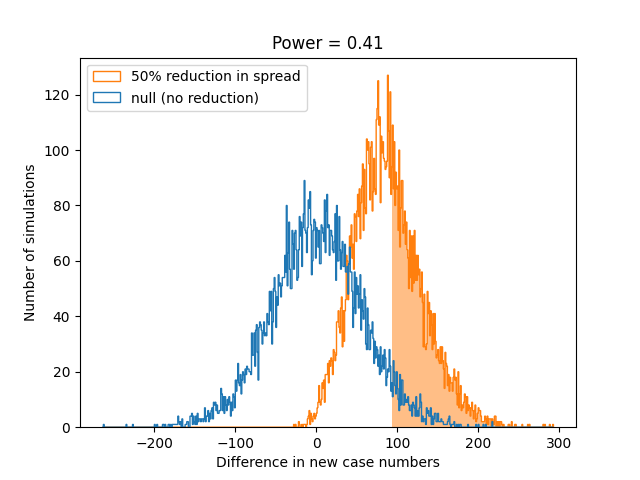
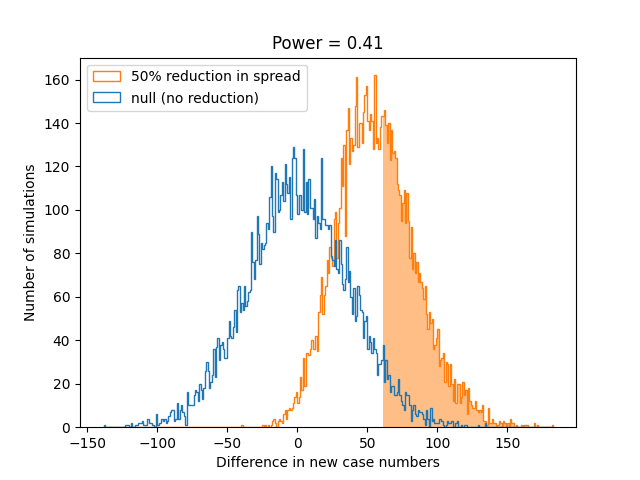
Fix error in accounting previous infections

diff --git a/src/poisson_sim.py b/src/poisson_sim.py
@@ -13,11 +13,11 @@ def simulate(
     outside_infection_rate: float,
     reduction_factor: float = 1.0,
 ) -> np.ndarray:
-    n_infected = np.zeros((Tc + 1, T2 - T1, num_trips))
-    n_infected[0] = initialize_infected(avg_init_infected, T1, T2, num_trips)
+    n_infected = np.zeros((Tc + 1, T2, num_trips))
+    n_infected[0] = initialize_infected(avg_init_infected, T2, num_trips)
     for i in range(1, Tc + 1):
         new_infections = generate_new_infections(
-            n_infected[i - 1], p * reduction_factor, c, outside_infection_rate
+            n_infected[i - 1], T1, p * reduction_factor, c, outside_infection_rate
         )
         n_infected[i, 0] = new_infections
         n_infected[i, 1:] = n_infected[i - 1, :-1]
@@ -26,18 +26,21 @@ def simulate(
 
 def initialize_infected(
     avg_init_infected: float,
-    T1: int,
     T2: int,
     num_trips: int,
 ) -> np.ndarray:
-    lam = avg_init_infected / float(T2 - T1)
-    return np.random.poisson(lam, (T2 - T1, num_trips))
+    lam = avg_init_infected / float(T2)
+    return np.random.poisson(lam, (T2, num_trips))
 
 
 def generate_new_infections(
-    n_infected: np.ndarray, p: float, c: float, outside_infection_rate: float
+    currently_infected: np.ndarray,
+    T1: int,
+    p: float,
+    c: float,
+    outside_infection_rate: float,
 ) -> int:
-    lam = p * c * np.sum(n_infected, axis=0) + outside_infection_rate
+    lam = p * c * np.sum(currently_infected[T1:], axis=0) + outside_infection_rate
     return np.random.poisson(lam)
 
 

diff --git a/sensitivity_analysis.py b/sensitivity_analysis.py
@@ -82,6 +82,6 @@ if __name__ == "__main__":
                         ax.set_xticklabels([])
 
             fig.savefig(
-                f"fig/power_analysis_prevalence={prevalence}_orate={outside_infection_rate}.pdf",
+                f"fig/power_analysis_prevalence={prevalence}_orate={outside_infection_rate}.png",
                 bbox_inches="tight",
             )

diff --git a/README.md b/README.md
@@ -39,8 +39,16 @@ Instead, we assume treat these effects in a coarse-grained way through $f$.
 
 The cruise has $N$ passengers and last for $T_c$ days.
 We assume that the virus is at prevalence $\lambda_0$ in the population the cruise ship passengers come from.
-We initialize the number of individuals who were infected $T_1 \leq \tau < T_2$ days ago by drawing independent Poisson random variables with mean:
-$$\frac{\lambda_0 N}{T_2 - T_2}.$$
+We initialize the number of individuals who were infected $0 \leq \tau < T_2$ days ago by drawing independent Poisson random variables according to:
+$$i_{\tau} \sim Poisson(\frac{N \lambda_0}{T_2}).$$
+
+For each day of the cruise, we simulate new infections according to
+$$i_0(t) \sim Poisson(\lambda_{outside} + cpf \sum_{\tau = T_1}^{T_2 - 1} i_\tau(t-1))$$.
+where $\lambda_{outside}$ is the expected number of new infections from interactions without people outside the cruise.
+
+We also increment the age of all the other infections:
+$$i_{\tau}(t) = i_{\tau - 1}{t - 1)$$
+for $\tau > 0$.
 
 ### Measurements
 
